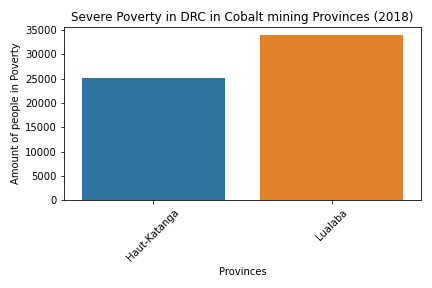
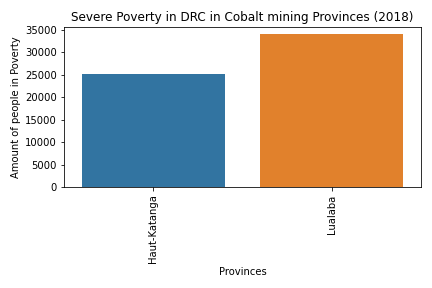
final touches

Changed region(s): [[0.0, 0.125, 0.963, 0.9062], [0.1806, 0.25, 0.5417, 0.2812], [0.6019, 0.0938, 0.9329, 0.125]]

diff --git a/DRC APA/poverty.py b/DRC APA/poverty.py
@@ -55,7 +55,7 @@ subset4 = groupedvalues[ cobalt ].sort_values('poverty')
 #%%making a figure to display severe poverty by province for mining provinces seperated by mining, nonminig, cobalt
 fig, ax1 = plt.subplots()
 sns.barplot(data=subset,x='province',y='pro_pov',ax=ax1)
-plt.xticks(rotation = 45)
+plt.xticks(rotation = 90)
 ax1.set_title("Severe Poverty in DRC in Mining Provinces (2018)")
 ax1.set_xlabel("Provinces")
 ax1.set_ylabel("Amount of people in Poverty")
@@ -64,7 +64,7 @@ fig.savefig('pov_mining.png')
 
 fig, ax1 = plt.subplots()
 sns.barplot(data=subset2,x='province',y='pro_pov',ax=ax1)
-plt.xticks(rotation = 45)
+plt.xticks(rotation = 90)
 ax1.set_title("Severe Poverty in DRC in Nonmining Provinces (2018)")
 ax1.set_xlabel("Provinces")
 ax1.set_ylabel("Amount of people in Poverty")
@@ -73,7 +73,7 @@ fig.savefig('pov_nonmining1.png')
 
 fig, ax1 = plt.subplots()
 sns.barplot(data=subset3,x='province',y='pro_pov',ax=ax1)
-plt.xticks(rotation = 45)
+plt.xticks(rotation = 90)
 ax1.set_title("Severe Poverty in DRC in Nonmining Provinces (2018) pt2")
 ax1.set_xlabel("Provinces")
 ax1.set_ylabel("Amount of people in Poverty")
@@ -82,7 +82,7 @@ fig.savefig('pov_nonmining2.png')
 
 fig, ax1 = plt.subplots()
 sns.barplot(data=subset4,x='province',y='pro_pov',ax=ax1)
-plt.xticks(rotation = 45)
+plt.xticks(rotation = 90)
 ax1.set_title("Severe Poverty in DRC in Cobalt mining Provinces (2018)")
 ax1.set_xlabel("Provinces")
 ax1.set_ylabel("Amount of people in Poverty")

diff --git a/DRC APA/population.py b/DRC APA/population.py
@@ -48,7 +48,7 @@ subset = fight[ in_group ].sort_values('person')
 
 fig, ax1 = plt.subplots()
 sns.barplot(data=subset,x='province',y='person',ax=ax1)
-plt.xticks(rotation = 45)
+plt.xticks(rotation = 90)
 ax1.set_title("Interanlly Displaced People in DRC by Province 2019-2020")
 ax1.set_xlabel("Provinces")
 ax1.set_ylabel("Internally Displaced People")
@@ -61,7 +61,7 @@ subset2 = fight[ out_group ].sort_values('person')
 #using the remainder of the highest values
 fig, ax1 = plt.subplots()
 sns.barplot(data=subset2,x='province',y='person',ax=ax1)
-plt.xticks(rotation = 45)
+plt.xticks(rotation = 90)
 ax1.set_title("Interanlly Displaced People in DRC by Province 2019-2020")
 ax1.set_xlabel("Provinces")
 ax1.set_ylabel("Internally Displaced People")
